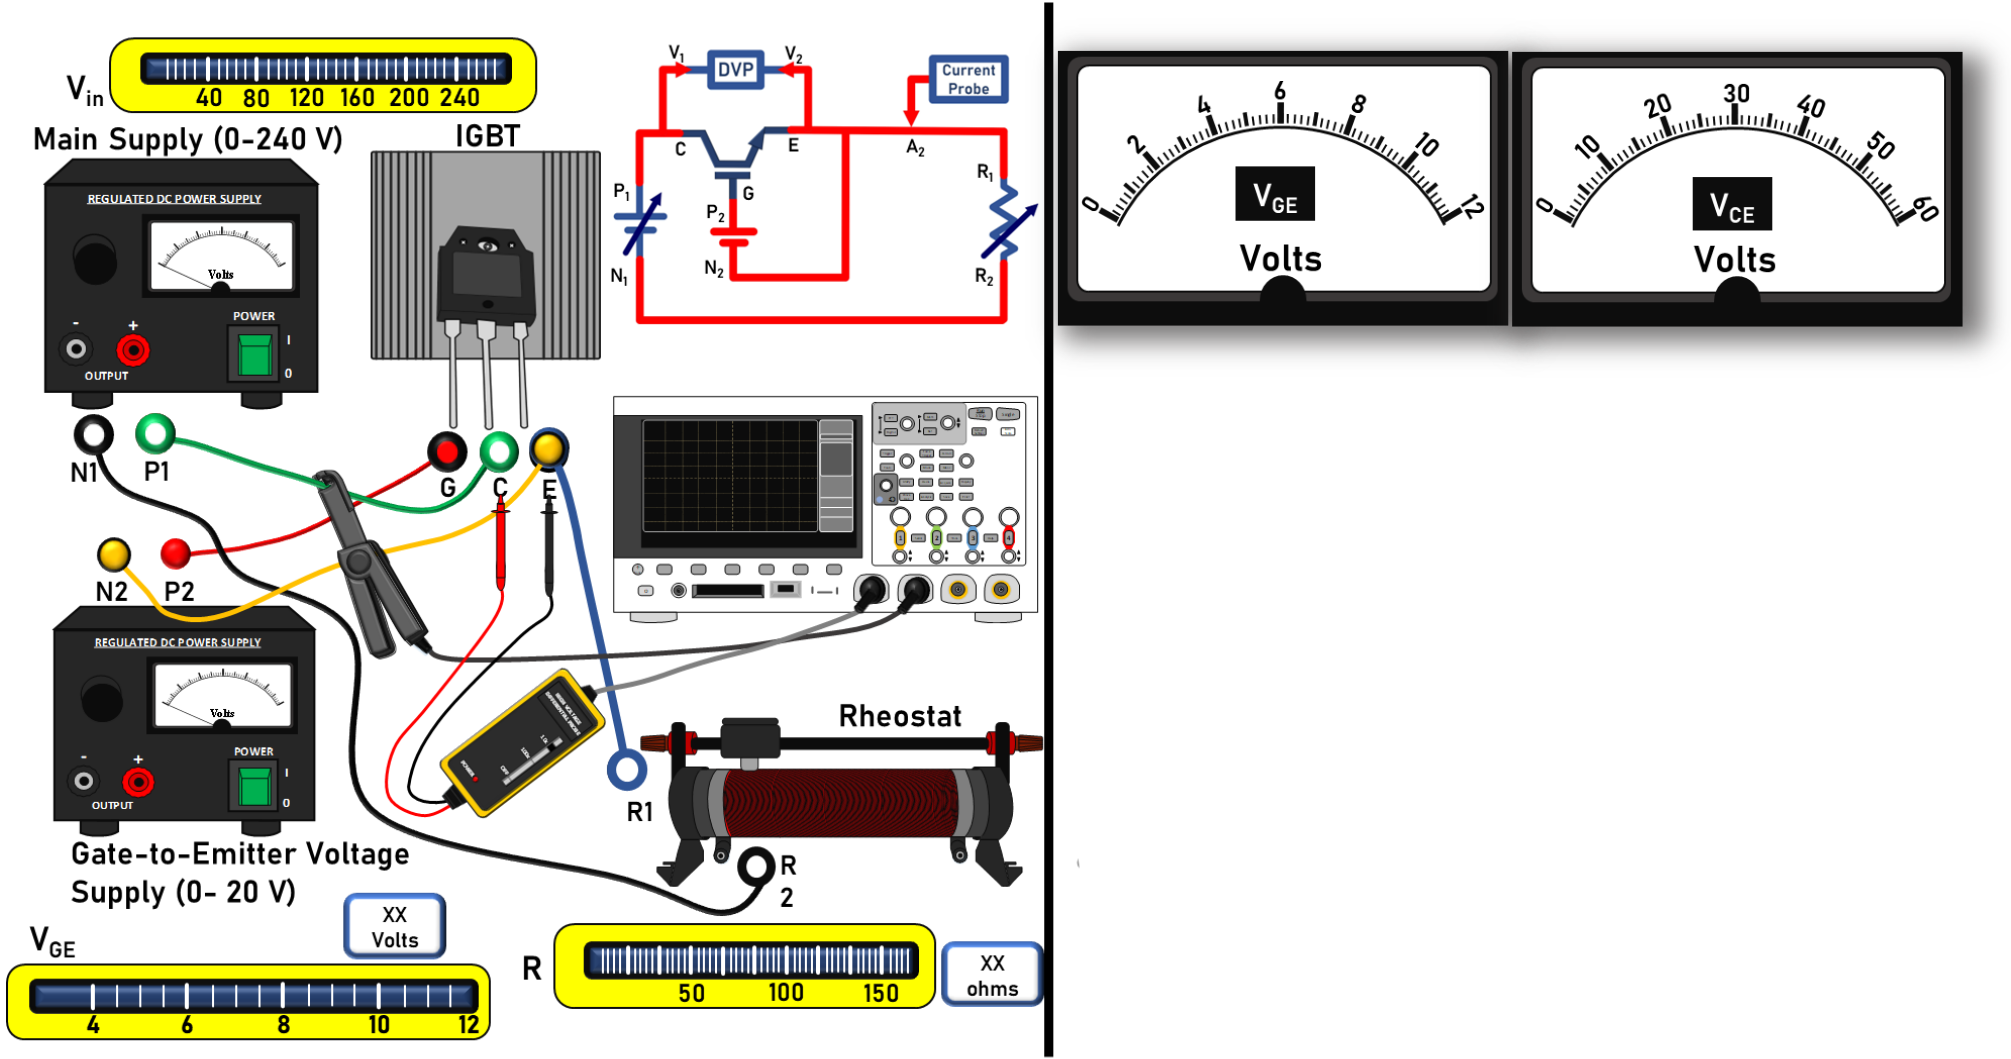
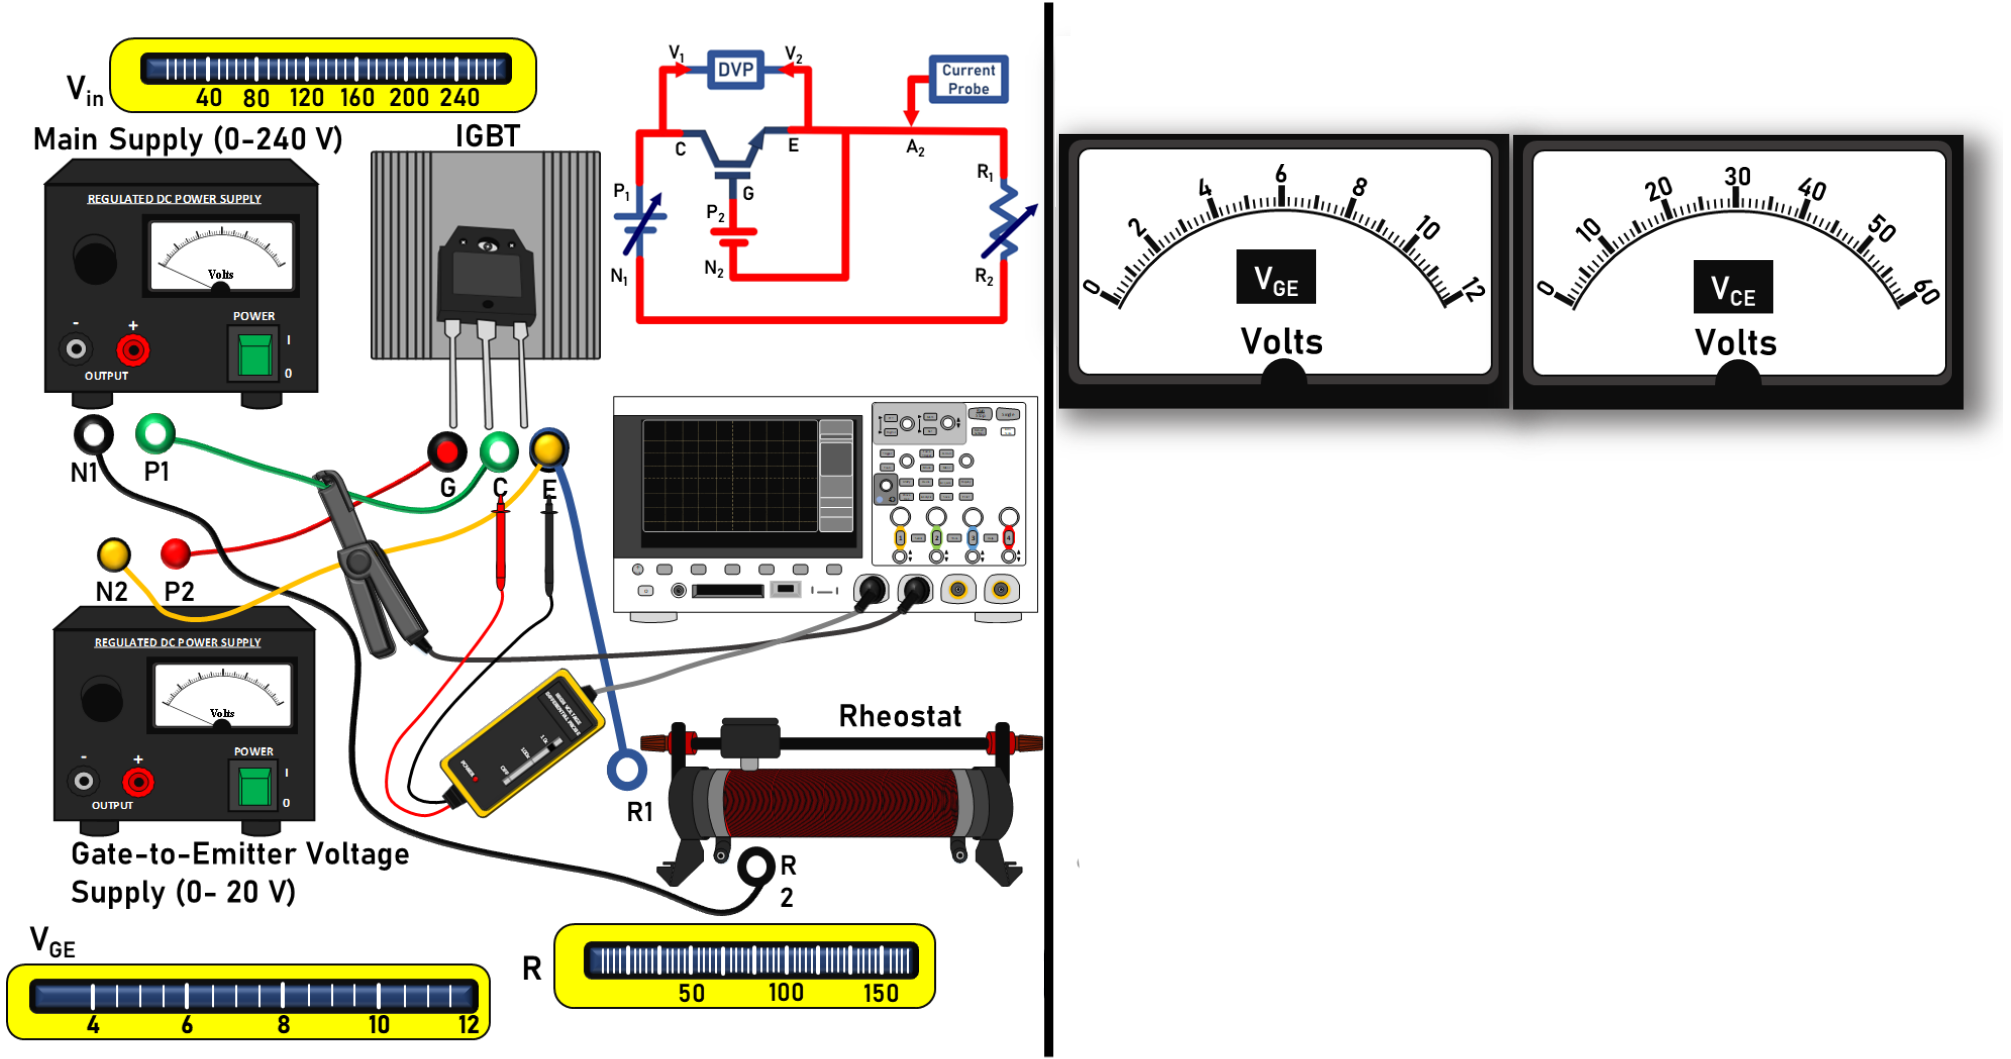
EE6 graph formulae and slider fixed

Changed region(s): [[0.5241, 0.0312, 1.0, 0.4363], [0.4625, 0.8725, 0.5241, 0.966], [0.1542, 0.8414, 0.2466, 0.9037]]

diff --git a/EE6/js/formulas.js b/EE6/js/formulas.js
@@ -7,71 +7,73 @@ const Formulas = {
             const 
             k0_values = [25,3,2.04,2.1,2.2],
             x0_values = [3,3,3.4,3.5,3.5],
-            m_values = [0.05179,0.3418,0.5,1.0417],
-            c_values = [20,40.05,85.8,116,154.005]
+            m_values = [0,0.5179,0.3418,0.5,1.0417],
+            c_values = [20,40.05,85.8,116,154.005],
+            l_values = [21.646,44.235,88.47,120,161],
+            vS_values = [4,4,6,8,6]
             
             colIdx = colIdx - 1
             let k0 = k0_values[colIdx],
             x0 = x0_values[colIdx],
             m = m_values[colIdx],
             c = c_values[colIdx],
-
-            vT = 3,
-            vDS = this.vDS(vDS_idx),
-            vS = 4 // todo change it
+            l = l_values[colIdx],
+            vS = vS_values[colIdx],
+            vCE = this.vDS(vDS_idx)
 
             
             let ans = 0
-            if(0 <= vDS && vDS <= (vGS - vT)){
-                let a = Kn * ( 2*(vGS - vT) * vDS - Math.pow(vDS,2))
-                let b = (1 + lambda * vDS)
-                ans = a * b 
+            if(0 <= vCE && vCE <= vS){
+                let upper = l
+                let lower = 1 + Math.exp( (-k0 * (vCE - x0)) )
+                ans = upper / lower 
             }else
-            if( vDS >= (vGS - vT)){
-                let a = Mn * Math.pow((vGS - vT),2)
-                let b = (1 + gama * vDS)
-                ans = a * b
+            if( vCE >= vS){
+                ans = m * vCE + c
             }
+
             return Number(ans.toFixed(2))
         },
         vDS(vDS_idx){
-            const vDS_values = [2,4,6,8,10,12,14,16,18,20]
+            const vDS_values = [0,2,4,6,8,10,12,14,16,18,20]
             return vDS_values[vDS_idx]
         },
     },
     usingOscilloscope:{
         iD(values,colIdx,vDS_idx){
+            
             const 
-            Kn_values = [3,0.64,0.425,0.3188,0.2119],
-            lambda_values = [0.0138,0.25,0.1765,0.0858,0.0259],
-            Mn_values = [3,1.0827,0.7111,0.3607,0.1681],
-            gama_values = [0.0138,0.0087,0.025,0.0592,0.0543]
+            k0_values = [25,3,2.04,2.1,2.2],
+            x0_values = [3,3,3.4,3.5,3.5],
+            m_values = [0,0.5179,0.3418,0.5,1.0417],
+            c_values = [20,40.05,85.8,116,154.005],
+            l_values = [21.646,44.235,88.47,120,161],
+            vS_values = [4,4,6,8,6]
             
             colIdx = colIdx - 1
-            let Kn = Kn_values[colIdx],
-            lambda = lambda_values[colIdx],
-            Mn = Mn_values[colIdx],
-            gama = gama_values[colIdx],
-            vT = 3,
-            vGS = values.vGS,
-            vDS = this.vDS(vDS_idx)
+            let k0 = k0_values[colIdx],
+            x0 = x0_values[colIdx],
+            m = m_values[colIdx],
+            c = c_values[colIdx],
+            l = l_values[colIdx],
+            vS = vS_values[colIdx],
+            vCE = this.vDS(vDS_idx)
+
             
             let ans = 0
-            if(0 <= vDS && vDS <= (vGS - vT)){
-                let a = Kn * ( 2*(vGS - vT) * vDS - Math.pow(vDS,2))
-                let b = (1 + lambda * vDS)
-                ans = a * b 
+            if(0 <= vCE && vCE <= vS){
+                let upper = l
+                let lower = 1 + Math.exp( (-k0 * (vCE - x0)) )
+                ans = upper / lower 
             }else
-            if( vDS >= (vGS - vT)){
-                let a = Mn * Math.pow((vGS - vT),2)
-                let b = (1 + gama * vDS)
-                ans = a * b
+            if( vCE >= vS){
+                ans = m * vCE + c
             }
-            console.log("ID: ",colIdx,vDS_idx,ans)
+
             return Number(ans.toFixed(2))
         },
         vDS(vDS_idx){
-            const vDS_values = [0,10,20,30,40,50,60]
+            const vDS_values = [0,2,4,6,8,10]
             return vDS_values[vDS_idx]
         },
     },

diff --git a/EE6/js/main.js b/EE6/js/main.js
@@ -892,7 +892,7 @@ const Scenes = {
     switch(step){
       case "1_1" : 
         instructionImg = Scenes.items.part_1_1_instruction_box.set(0,0).zIndex(50).hide()
-        procedureImg = Scenes.items.part_1_1_procedure_box.set(-150,-540).zIndex(50).hide()
+        procedureImg = Scenes.items.part_1_1_procedure_box.set(-150,-500).zIndex(50).hide()
         nomenclatureImg = Scenes.items.part_1_1_nomenclature_box.set(-374,null,800).zIndex(50).hide()
         conclusionImg = Scenes.items.part_1_1_conclusion_box.set(null,-140,600).zIndex(50).hide()
         break;
@@ -1226,7 +1226,7 @@ const Scenes = {
           "#181818",
           "#cf426d",
           "#560056",
-        ]
+      ]
 
 
       function hideConnectionStepImgs(){
@@ -1347,14 +1347,14 @@ const Scenes = {
       partConnections()
 
       //! Graph Part
-    function partCalculation(){
+      function partCalculation(){
         // for recrod btn
         let recordBtnIdx = 0
         Scenes.items.part_1_1_calculations.set(-15,-70,480,983)
         Scenes.items.btn_plot.set(517, 381, 34, 70).zIndex(10)
-        Scenes.items.btn_procedure.set(494, 130, 39)
-        Scenes.items.btn_nomenclature.set(620, 132, 37, 160)
-        Scenes.items.btn_conclusion.set(787, 132, 37)
+        Scenes.items.btn_procedure.set(494, -75, 39)
+        Scenes.items.btn_nomenclature.set(620, -75, 37, 160)
+        Scenes.items.btn_conclusion.set(787, -75, 37)
         // * Calling slider
         sliders.showSliderFor("1_1")
 
@@ -1377,7 +1377,7 @@ const Scenes = {
         
         // let table = new Dom(".part_2_table").set(600,-76).item
 
-        let table = new Dom(".part3_table_two").set(493,-76).zIndex(10).item
+        let table = new Dom(".part3_table_two").set(493,-35).zIndex(10).item
 
         // * assume tempTitle10 as a btn record
         let btn_record = sliders.btn_record.item
@@ -1404,8 +1404,9 @@ const Scenes = {
             9:4,
             10:5,
           }
-          let first_vGs_value = 4
-          let last_vGs_value = 15
+
+          let first_vGs_value = 6
+          let last_vGs_value = 10
           let vGs_value = sliders.slider_vGs.getValue()
           let vIn_value = sliders.slider_vIn.getValue()
           let R_value = sliders.slider_R.getValue()
@@ -1689,14 +1690,14 @@ const Scenes = {
         setCC("Select R")
         
         Scenes.items.part_1_2_calculations.set(3,-70,480,963)
-        Scenes.items.btn_procedure.set(511,87,37).zIndex(10)
-        Scenes.items.btn_nomenclature.set(624,87,37,160).zIndex(10)
-        Scenes.items.btn_conclusion.set(787, 87, 37).zIndex(10)
+        Scenes.items.btn_procedure.set(511,-57,37).zIndex(10)
+        Scenes.items.btn_nomenclature.set(624,-57,37,160).zIndex(10)
+        Scenes.items.btn_conclusion.set(787, -57, 37).zIndex(10)
 
         // neddle vGs rotate (-1,multipoint) deg
-        Scenes.items.niddle_vGs.set(547,32,74).rotate(-1).zIndex(10)
+        Scenes.items.niddle_vGs.set(547,71,74).rotate(-1).zIndex(10)
         // neddle vIn rotate (-1,126) deg
-        Scenes.items.niddle_vIn.set(765,31,74).rotate(-1).zIndex(10)
+        Scenes.items.niddle_vIn.set(765,71,74).rotate(-1).zIndex(10)
 
         // * Calling slider
         sliders.showSliderFor("1_2")
@@ -1743,11 +1744,11 @@ const Scenes = {
           updateValues(vIn_value,vGs_value,R_value)
 
           let vGs_idx = {
-            4:1,
-            6:2,
+            6:1,
+            7:2,
             8:3,
-            10:4,
-            15:5,
+            9:4,
+            10:5,
           }
           let first_vGs_value = 4
           let last_vGs_value = 15
@@ -2200,7 +2201,7 @@ const Scenes = {
 // rangeSlider();
 
 // stepcalling
-Scenes.currentStep = 5
+Scenes.currentStep = 3
 Scenes.next()
 // Scenes.steps[3]()
 // Scenes.next()

diff --git a/EE6/js/sliders.js b/EE6/js/sliders.js
@@ -161,7 +161,7 @@ const sliders = {
               rotate: niddle_vGs_deg[currentDifferenceIndex_vGs],
               complete(){
                 // * show arrow for vIn
-                Dom.setBlinkArrowRed(true,13,-89,35,null,-90).play()
+                Dom.setBlinkArrowRed(true,53,-89,35,null,-90).play()
                 setCC("Select V<sub>in</sub>")
               }
             })
@@ -244,7 +244,7 @@ const sliders = {
         // ! R onclick 
         this.slider_R.item.onclick = ()=>{
           let value_R = 50
-          var left = 304
+          var left = 323
           this.sliderAnime(this.slider_R,0,value_R,left)
 
           // * show arrow for vGs
